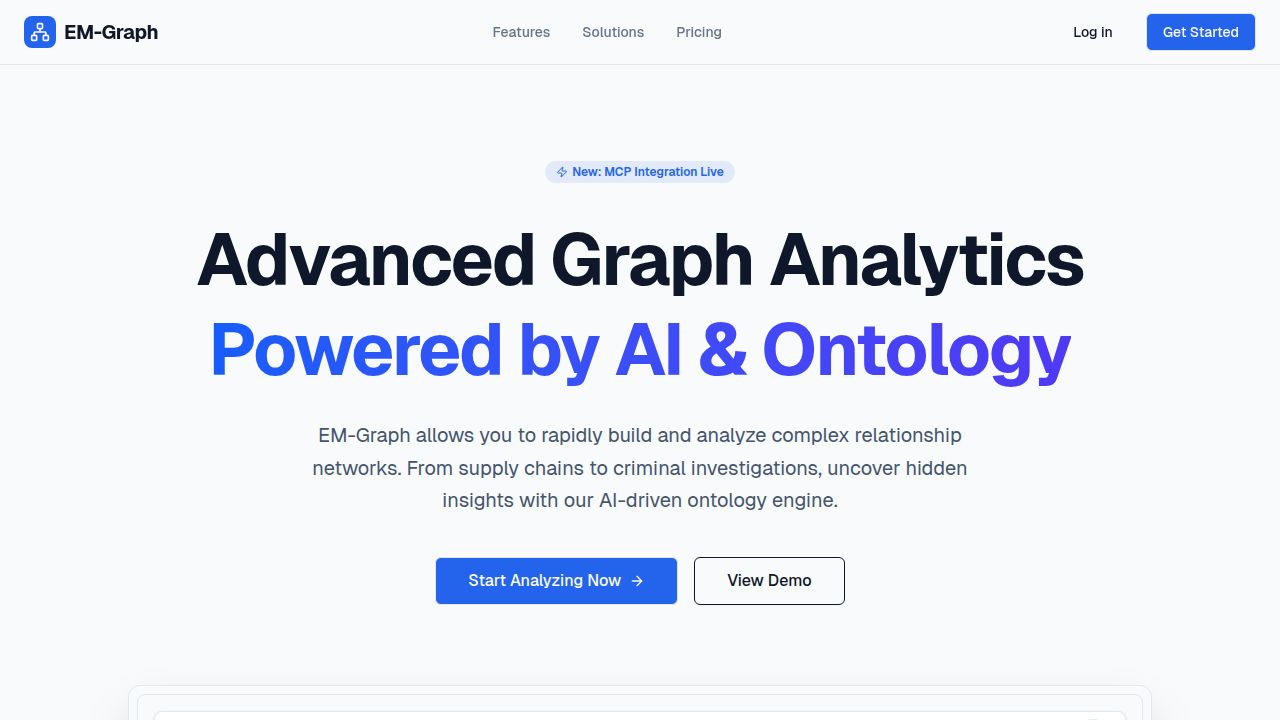
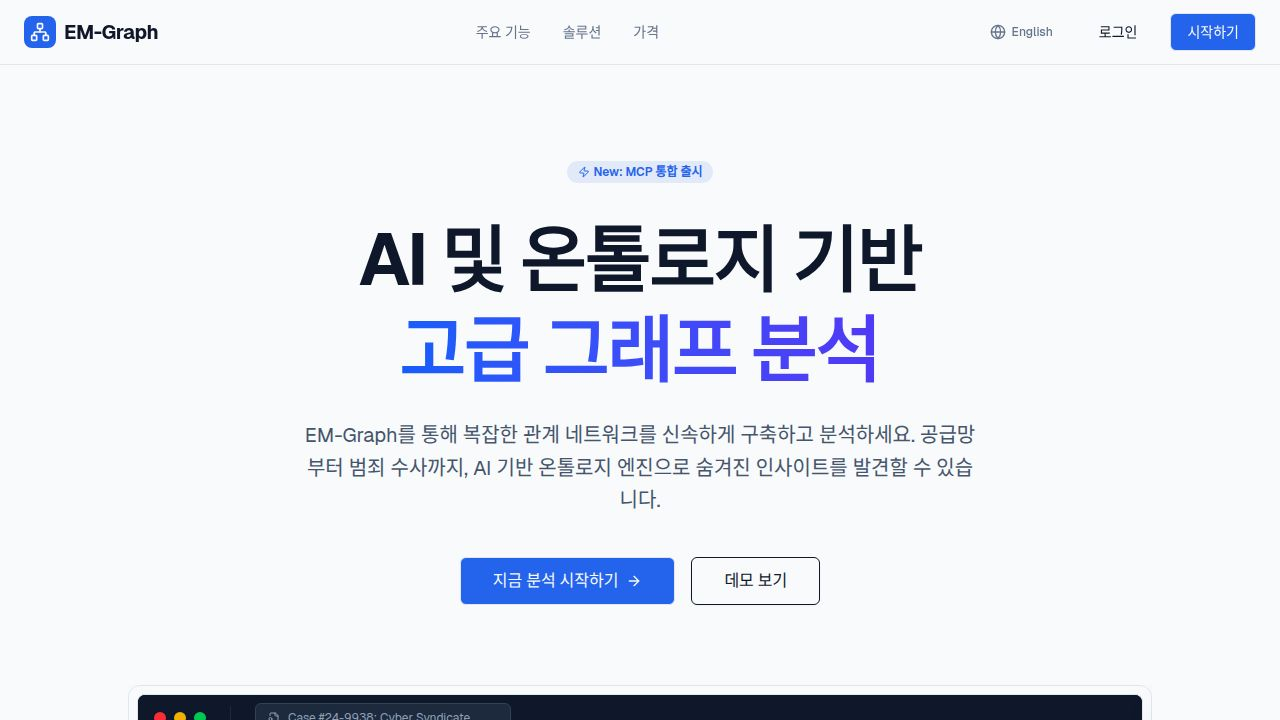
Update hero section images to show professional product dashboards
Replace existing hero images with new product UI dashboards for investigation, supply chain, and finance, and remove opacity and color overlays for a clearer view.

Replit-Commit-Author: Agent
Replit-Commit-Session-Id: e1b1e801-1ba4-4415-afab-7e6310e392cb
Replit-Commit-Checkpoint-Type: full_checkpoint
Replit-Commit-Event-Id: 492f31a0-9286-4064-898c-fc5e91175345
Replit-Commit-Screenshot-Url: https://storage.googleapis.com/screenshot-production-us-central1/22bb217b-1bef-4da8-87c8-8e4fe3da5c64/e1b1e801-1ba4-4415-afab-7e6310e392cb/E3CdtTC
Replit-Helium-Checkpoint-Created: true

diff --git a/client/src/pages/LandingPage.tsx b/client/src/pages/LandingPage.tsx
@@ -6,9 +6,9 @@ import { useState, useEffect } from "react";
 import { translations } from "@/lib/translations";
 import { Globe as GlobeIcon } from "lucide-react";
 
-import investigationImage from '@assets/generated_images/police_detectives_in_high-tech_room.png';
-import supplyChainImage from '@assets/generated_images/cargo_ship_at_harbor.png';
-import financeImage from '@assets/generated_images/financial_trading_floor.png';
+import investigationImage from '@assets/generated_images/dark_mode_graph_analysis_software_dashboard_for_investigation.png';
+import supplyChainImage from '@assets/generated_images/dark_mode_supply_chain_management_dashboard_ui.png';
+import financeImage from '@assets/generated_images/dark_mode_financial_fraud_detection_dashboard_ui.png';
 import biotechImage from '@assets/generated_images/scientist_with_test_tube.png';
 
 export default function LandingPage() {
@@ -136,8 +136,7 @@ export default function LandingPage() {
 
                        {/* Main Content - Image */}
                        <div className="absolute top-12 left-16 right-0 bottom-0 bg-slate-950 overflow-hidden">
-                          <img src={investigationImage} className="w-full h-full object-cover opacity-60" alt="Investigation Graph" />
-                          <div className="absolute inset-0 bg-indigo-900/10 mix-blend-overlay" />
+                          <img src={investigationImage} className="w-full h-full object-cover" alt="Investigation Graph" />
                           
                           {/* Overlay UI: Nodes */}
                           <div className="absolute top-1/3 left-1/3 w-32 h-32 border-2 border-indigo-500/50 rounded-full animate-pulse opacity-50" />
@@ -193,8 +192,7 @@ export default function LandingPage() {
                        </div>
 
                        <div className="absolute top-12 left-16 right-0 bottom-0 bg-slate-950 overflow-hidden">
-                          <img src={supplyChainImage} className="w-full h-full object-cover opacity-60" alt="Supply Chain Map" />
-                          <div className="absolute inset-0 bg-emerald-900/10 mix-blend-overlay" />
+                          <img src={supplyChainImage} className="w-full h-full object-cover" alt="Supply Chain Map" />
                           
                           <div className="absolute bottom-4 left-4 bg-slate-900/90 backdrop-blur border border-slate-800 p-4 rounded-lg w-80 shadow-2xl">
                              <h4 className="text-white text-sm font-medium mb-3 flex items-center gap-2 pb-2 border-b border-slate-800">
@@ -240,8 +238,7 @@ export default function LandingPage() {
                        </div>
 
                        <div className="absolute top-12 left-16 right-0 bottom-0 bg-slate-950 overflow-hidden">
-                          <img src={financeImage} className="w-full h-full object-cover opacity-60" alt="Finance Graph" />
-                          <div className="absolute inset-0 bg-blue-900/10 mix-blend-overlay" />
+                          <img src={financeImage} className="w-full h-full object-cover" alt="Finance Graph" />
                           
                           <div className="absolute top-4 left-4 bg-slate-900/90 backdrop-blur border border-slate-800 p-4 rounded-lg w-64 shadow-2xl">
                              <div className="flex justify-between items-center mb-2">
